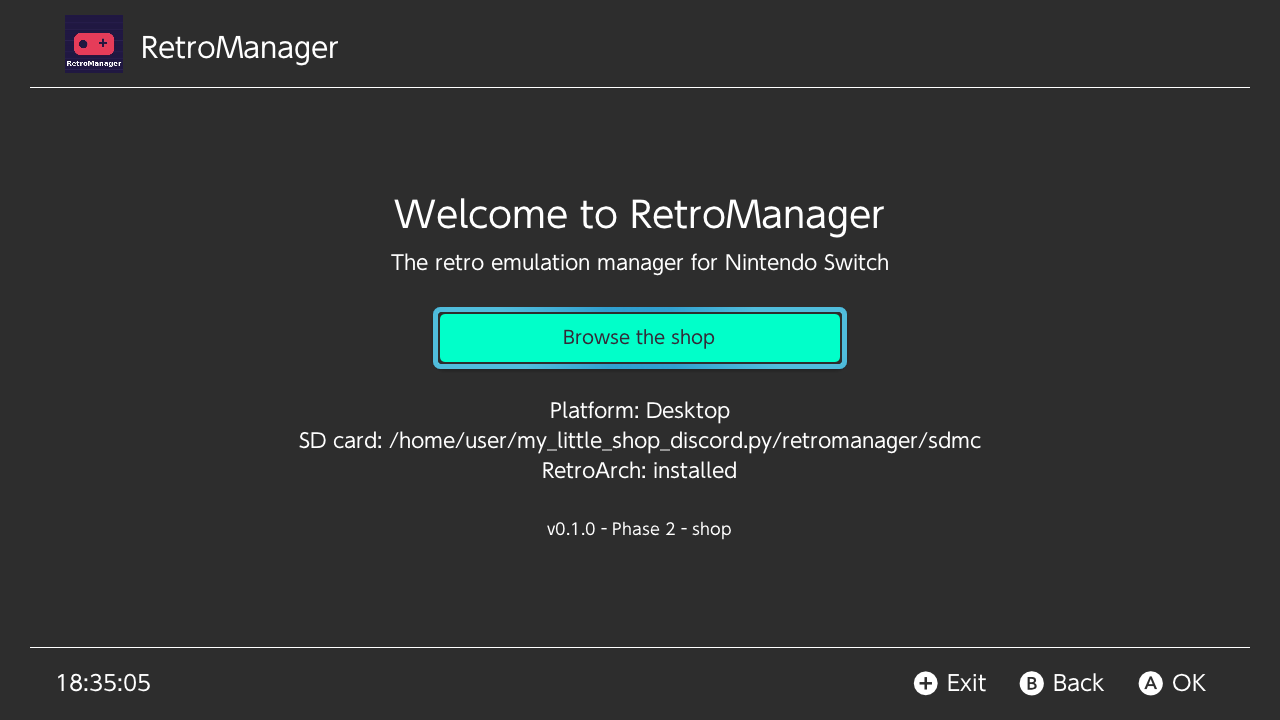
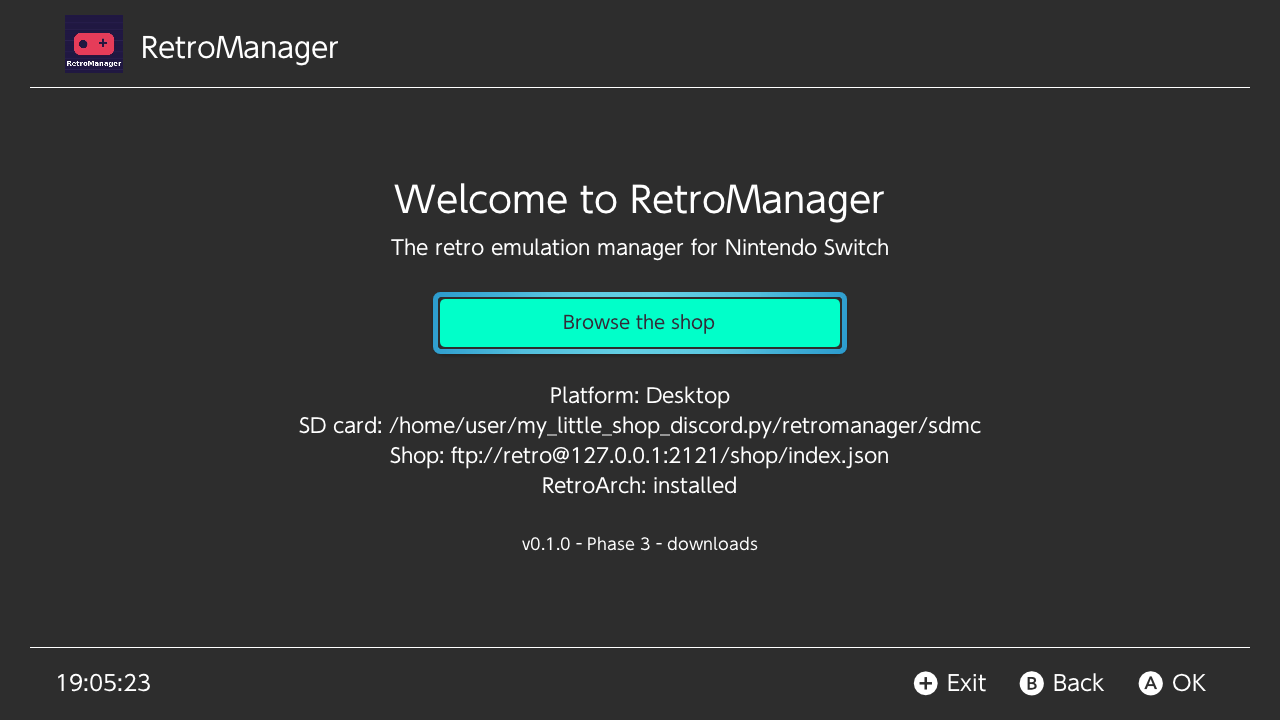
retromanager: document configuration and the download pipeline
Claude-Session: https://claude.ai/code/session_01QrhfqN1vSePJuW5szmThmT

Changed region(s): [[0.2188, 0.2444, 0.7812, 0.7028], [0.4062, 0.7333, 0.5938, 0.7639], [0.0938, 0.9472, 0.125, 0.9778]]

diff --git a/retromanager/ARCHITECTURE.md b/retromanager/ARCHITECTURE.md
@@ -31,13 +31,13 @@ contredit, on modifie d'abord ce document.
 ```mermaid
 graph TD
     UI["ui/ : Activities & vues Borealis"]
-    SVC["services/ : ShopService ✅, RomManager, EmulatorConfigurator, CheatManager, CloudSync, ForwarderBuilder, Scraper"]
-    PARSE["parsers/ : RepoIndexParser ✅, CfgParser, IniParser, ChtParser"]
-    FS["fs/ : RomStore, SaveStore, BiosStore"]
-    NET["network/ : IRemoteSource ✅, MockRemoteSource ✅, FtpClient ✅, SmbClient, HttpClient"]
+    SVC["services/ : ShopService ✅, DownloadService ✅, ConfigManager ✅, EmulatorConfigurator, CheatManager, CloudSync, ForwarderBuilder, Scraper"]
+    PARSE["parsers/ : RepoIndexParser ✅, ConfigParser ✅, CfgParser, IniParser, ChtParser"]
+    FS["fs/ : RomStore ✅, SaveStore, BiosStore"]
+    NET["network/ : IRemoteSource ✅, MockRemoteSource ✅, FtpClient ✅, SourceFactory ✅, SmbClient, HttpClient"]
     PLAT["platform/ : IFileSystem, VirtualPath, SdLayout, Platform"]
-    CORE["core/ : Result, AppContext, ITaskRunner, Url, Format"]
-    MODELS["models/ : GameEntry, RepoIndex, Systems"]
+    CORE["core/ : Result, AppContext, ITaskRunner, WorkerThread, EventBus, Cancellation, Crc32, Url, Format"]
+    MODELS["models/ : GameEntry, RepoIndex, Systems, AppConfig"]
 
     UI --> SVC
     UI --> MODELS
@@ -47,6 +47,7 @@ graph TD
     SVC --> FS
     SVC --> NET
     FS --> PLAT
+    FS --> MODELS
     NET --> CORE
     PARSE --> CORE
     MODELS --> CORE
@@ -55,12 +56,12 @@ graph TD
 
 | Couche | Rôle | Peut dépendre de | Ne doit **jamais** |
 |---|---|---|---|
-| `core/` | Types de base (`Result`, `Status`), composition (`AppContext`), `ITaskRunner`, utilitaires purs (`Url`, `Format`) | STL | inclure Borealis ou libnx |
-| `models/` | Données pures partagées par toutes les couches (`GameEntry`, `RepoIndex`, `SystemSection`) et catalogue des systèmes | `core` | contenir du comportement autre que des accesseurs |
+| `core/` | Types de base (`Result`, `Status`), composition (`AppContext`), exécution (`ITaskRunner`, `WorkerThread`, `CancellationToken`), `EventBus`, utilitaires purs (`Url`, `Format`, `Crc32`) | STL | inclure Borealis ou libnx |
+| `models/` | Données pures partagées par toutes les couches (`GameEntry`, `RepoIndex`, `SystemSection`, `AppConfig`) et catalogue des systèmes | `core` | contenir du comportement autre que des accesseurs |
 | `platform/` | Abstractions système + implémentations par plateforme | `core` | contenir de la logique métier |
 | `parsers/` | Fonctions **pures** texte ⇄ structures (`.cfg`, `.ini`, JSON, `.cht`) | `core`, nlohmann/json | faire des E/S : ils reçoivent et rendent des chaînes |
-| `fs/` | Opérations SD typées (ranger une ROM, retrouver une save…) | `platform`, `core` | parler au réseau |
-| `network/` | Déplace des octets derrière `IRemoteSource` | `core` (+ libcurl pour `FtpClient`) | parser un index, écrire sur la SD (il fournira des flux) |
+| `fs/` | Opérations SD typées : `RomStore` (destination, espace libre, installation atomique vérifiée par CRC) | `platform`, `models`, `core` | parler au réseau |
+| `network/` | Déplace des octets derrière `IRemoteSource` (index en mémoire, ROMs en flux vers un `ChunkSink`) | `core` (+ libcurl pour `FtpClient`) | parser un index, écrire sur la SD |
 | `services/` | Cas d'usage : orchestrent parsers, fs et network | tout ce qui précède | inclure Borealis |
 | `ui/` | Affichage et navigation Borealis | `services`, `models`, `core` | appeler un parser, un `IRemoteSource` ou `IFileSystem` directement |
 
@@ -72,8 +73,8 @@ graph TD
 
 | Cible | Contenu | Plateformes |
 |---|---|---|
-| `retromanager_core` | `src/core`, `src/models`, `src/parsers`, `src/services`, `src/platform/common`, `MockRemoteSource` | toutes : c'est ce qu'on teste |
-| `retromanager_curl` | `FtpClient` (libcurl). Option `RM_WITH_CURL`, activée par défaut | toutes |
+| `retromanager_core` | `src/core`, `src/models`, `src/parsers`, `src/fs`, `src/services`, `src/platform/common`, `MockRemoteSource` | toutes : c'est ce qu'on teste |
+| `retromanager_curl` | `FtpClient`, `SourceFactory` (libcurl). Option `RM_WITH_CURL`, activée par défaut | toutes |
 | `RetroManager` | `src/main.cpp`, `src/ui`, **une seule** implémentation de `src/platform/{switch,desktop}` + Borealis | desktop, Switch (`.nro`) |
 | `retromanager_mocks` | `tests/mocks` : `MemoryFileSystem`, chargeur de fausse SD | desktop (tests) |
 | `retromanager_tests` | `tests/unit`, `tests/integration` (GoogleTest) | desktop |
@@ -103,10 +104,14 @@ liront les vrais chemins dans `retroarch.cfg`.
   `openRead` / `openWrite` (par flux, pour les gros fichiers), `remove`,
   `removeAll`, `rename`, et des utilitaires communs (`readFile`, `writeFile`,
   `exists`…).
-- **Écritures atomiques** : `openWrite` écrit dans un fichier de transit
-  (`*.rm-partial`, masqué dans les listings), qui ne remplace la cible qu'au
-  `close()`. Un crash ou une coupure réseau pendant un téléchargement ou une
-  synchronisation ne laisse jamais de ROM tronquée ni de save corrompue.
+- **Écritures atomiques** : `openWrite("/roms/nds/Jeu.nds")` écrit dans un
+  fichier de transit caché, `/roms/nds/.Jeu.nds.tmp` (masqué dans les
+  listings), renommé sur la cible seulement au `close()`. Détruire le flux
+  sans `close()` supprime le `.tmp`. Un crash, une annulation ou une coupure
+  réseau ne laisse jamais de ROM tronquée ni de save corrompue ; un `.tmp`
+  resté après une coupure de courant est écrasé à la tentative suivante.
+- `availableSpace(path)` : espace libre du volume (`Unsupported` si la
+  plateforme ne sait pas le dire ; l'appelant continue alors sans contrôle).
 - Codes d'erreur normalisés (`NotFound`, `NotADirectory`, `IsADirectory`,
   `NotEmpty`, `InvalidPath`, `PermissionDenied`…), identiques sur toutes les
   implémentations.
@@ -117,7 +122,7 @@ liront les vrais chemins dans `retroarch.cfg`.
 |---|---|---|
 | `LocalFileSystem("sdmc:/")` | carte SD montée par libnx | console |
 | `LocalFileSystem(<dossier>)` | `retromanager/sdmc/` ou `$RETROMANAGER_SD_ROOT` | app desktop sur une fausse SD |
-| `test::MemoryFileSystem` | RAM | tests unitaires rapides et hermétiques, mode lecture seule simulé |
+| `test::MemoryFileSystem` | RAM | tests unitaires rapides et hermétiques ; lecture seule et capacité de carte simulables |
 
 **Test de contrat** (`tests/unit/FileSystemContractTest.cpp`) : la même suite
 s'exécute contre chaque implémentation. C'est la garantie qu'un service validé
@@ -169,37 +174,54 @@ sequenceDiagram
 ```
 
 L'UI ne connaît que `ShopService` et les modèles. `main.cpp` choisit la
-source (aujourd'hui `MockRemoteSource`, demain `FtpClient` selon
-`config.json`) : changer de source ne touche ni l'UI ni le service.
+source d'après `config.json` (`ConfigManager` → `createRemoteSource` :
+`FtpClient`, `MockRemoteSource`, ou `UnavailableRemoteSource` qui porte
+l'erreur de configuration jusqu'à l'écran) : changer de source ne touche ni
+l'UI ni les services. Configuration : [docs/CONFIG.md](docs/CONFIG.md).
 
 Format de l'index : [docs/INDEX_FORMAT.md](docs/INDEX_FORMAT.md).
 
-### 4.3 Exemple de flux (Phase 3) : télécharger une ROM
+### 4.3 Flux implémenté (Phase 3) : télécharger une ROM
 
 ```mermaid
 sequenceDiagram
-    participant UI as RomBrowserActivity (ui)
-    participant S as RomManager (services)
-    participant R as IRemoteSource (network)
+    participant UI as DownloadActivity (ui)
+    participant B as EventBus (core)
+    participant D as DownloadService (services, WorkerThread)
     participant F as RomStore → IFileSystem (fs/platform)
-    UI->>S: download(entry)          [thread UI]
-    S->>R: openRead(remotePath)      [tâche de fond]
-    S->>F: openWrite(/roms/snes/x.sfc)
-    loop chunks
-        R-->>S: read(chunk)
-        S->>F: write(chunk)
-        S-->>UI: progression (repostée sur le thread UI)
+    participant R as IRemoteSource (network)
+    UI->>B: subscribe(Started / Progressed / Finished)
+    UI->>D: start(game) → id                       [thread UI, rend la main]
+    D->>F: beginInstall(game) : espace libre, .Jeu.nds.tmp
+    alt espace insuffisant
+        D-->>B: Finished{InsufficientSpace, chiffres}  (le NAS n'est jamais contacté)
     end
-    S->>F: close()  (commit atomique)
-    S-->>UI: Result (succès / erreur typée)
+    D->>R: downloadFile(url, sink, progress, token)
+    loop blocs de ~16-256 Kio
+        R->>F: sink → RomInstall::write (tampon 1 Mio, CRC32 au fil de l'eau)
+        D-->>B: Progressed (≤ 10 par seconde)
+    end
+    UI->>D: cancel(id) sur B → token → curl abandonne, .tmp supprimé
+    D->>F: commit() : CRC vérifié puis renommage atomique
+    D-->>B: Finished{ok | Cancelled | NetworkError | IntegrityError…}
+    B-->>UI: handlers exécutés sur le thread principal
 ```
+
+La mémoire consommée ne dépend pas de la taille de la ROM : tampon
+d'écriture de 1 Mio + tampon de réception curl de 256 Kio. Le test
+d'intégration mesure la mémoire résidente pendant un téléchargement de
+64 Mio : environ +1,2 Mio (échec au-delà de 16 Mio).
 
 ### 4.4 Asynchronisme
 
-- Les opérations longues (réseau, copie, scraping) passent par `ITaskRunner`
-  (`core/ITaskRunner.hpp`) : `ui::BorealisTaskRunner` (`brls::async` /
-  `brls::sync`) dans l'app, `ImmediateTaskRunner` ou une file manuelle dans
-  les tests, qui restent donc synchrones et déterministes.
+- Les opérations longues passent par `ITaskRunner` (`core/ITaskRunner.hpp`) :
+  - `ui::BorealisTaskRunner` (`brls::async` / `brls::sync`) pour les tâches
+    courtes (chargement de l'index) ;
+  - `WorkerThread`, un thread dédié possédé par `DownloadService`, pour les
+    téléchargements : ils durent des minutes et ne doivent pas bloquer la
+    boucle de tâches unique de Borealis ;
+  - `ImmediateTaskRunner` ou une file manuelle dans les tests, qui restent
+    donc synchrones et déterministes.
 - Les services livrent leurs résultats par callback **sur le thread
   principal**. Ils ignorent tout de Borealis : c'est l'implémentation
   d'`ITaskRunner` fournie par l'UI qui fait le saut de thread.
@@ -208,14 +230,21 @@ sequenceDiagram
   (`shared_ptr<bool>`), vérifié sur le thread principal.
 - `Application::exit()` de Borealis attend la fin du thread de tâches : les
   services créés dans `main()` survivent donc à toute tâche en cours.
-- Pas de bus d'événements global tant qu'un besoin réel n'apparaît pas
-  (synchronisation cloud en arrière-plan, par exemple).
+- **EventBus** (`core/EventBus.hpp`) : canal typé services → UI pour les
+  événements qui durent (progression des téléchargements, demain la synchro
+  cloud). `publish()` depuis n'importe quel thread ; les handlers tournent
+  toujours sur le thread principal ; une `Subscription` détruite n'est plus
+  jamais appelée, même pour un événement déjà en file.
+- `DownloadService` possède son `WorkerThread` : son destructeur annule tout
+  et attend la fin du transfert en cours. Dans `main()`, il est déclaré en
+  dernier pour être détruit en premier.
 
 ### 4.5 Gestion des erreurs
 
 `Result<T>` / `Status` à chaque frontière. Les services ajoutent du contexte au
 message ; l'UI traduit `ErrorCode` en message localisé (i18n : réseau,
-authentification, index introuvable, format invalide). Aucune exception ne
+authentification, index introuvable, format invalide, espace insuffisant,
+CRC incorrect, configuration absente). Aucune exception ne
 traverse une frontière de couche (le parser attrape celles de nlohmann/json).
 
 ---
@@ -226,12 +255,17 @@ traverse une frontière de couche (le parser attrape celles de nlohmann/json).
    `.cfg`, synchronisation, parsing des listings FTP).
 2. **Unitaires** (`tests/unit`) : `MemoryFileSystem` et fakes, rapides.
 3. **Contrat** : une suite par interface, exécutée sur chaque implémentation.
-4. **Intégration** (`tests/integration`) : `FtpClient` contre un vrai serveur
-   FTP local (`tools/test_ftp_server.py`, pyftpdlib) servant
-   `tests/fixtures/ftp_root`. Ces tests sont ignorés (`SKIPPED`) si
-   `RM_TEST_FTP_PORT` n'est pas défini.
-5. **CI** (`.github/workflows/retromanager.yml`) : tests sous ASan et UBSan,
-   build desktop, build Switch `.nro` dans le conteneur `devkitpro/devkita64`.
+4. **Intégration** (`tests/integration`) : `FtpClient` → `DownloadService` →
+   `RomStore` → disque, contre un vrai serveur local
+   (`tools/test_ftp_server.py`, pyftpdlib) servant `tests/fixtures/ftp_root`
+   plus une ROM générée de 64 Mio avec son CRC, et un second serveur **FTPS**
+   au certificat auto-signé. Couvert : flux, mémoire bornée, annulation,
+   nettoyage du `.tmp`, fichier absent, identifiants jamais envoyés à un autre
+   hôte, `verifyTls` on/off. Ignorés (`SKIPPED`) sans `RM_TEST_FTP_PORT` /
+   `RM_TEST_FTPS_PORT`.
+5. **CI** (`.github/workflows/retromanager.yml`) : tests sous ASan et UBSan
+   avec les deux serveurs, build desktop, libcurl compilée depuis les
+   sources, build Switch `.nro` dans le conteneur `devkitpro/devkita64`.
 
 ---
 
@@ -241,7 +275,7 @@ traverse une frontière de couche (le parser attrape celles de nlohmann/json).
 retromanager/
 ├── CMakeLists.txt, CMakePresets.json   # presets tests / desktop / switch
 ├── cmake/                              # FetchBorealis (avant project()), Dependencies, Curl
-├── docs/                               # INDEX_FORMAT.md, captures
+├── docs/                               # INDEX_FORMAT.md, CONFIG.md, captures
 ├── include/retromanager/<couche>/      # en-têtes publics, un dossier par couche
 ├── src/<couche>/                       # implémentations (même découpage)
 │   └── platform/{common,switch,desktop}
@@ -261,5 +295,5 @@ Nommage : `IXxx` pour une interface, un fichier par classe, espace de noms
 |---|---|---|
 | 0–1 | Squelette, `IFileSystem` avec mocks, fausse SD, écran d'accueil, CI | ✅ |
 | 2 | Boutique : `GameEntry`, `RepoIndexParser`, `IRemoteSource` (mock + FTP), `ShopService`, liste Borealis | ✅ |
-| 3 | Téléchargement : `IRemoteSource::openRead` en flux, `RomStore`, écriture atomique sur la SD, progression | — |
-| 4+ | Configuration des sources (`config.json`), SMB/HTTP, scraping, configurateur RetroArch, cheats, cloud saves, forwarders | — |
+| 3 | `config.json` + vrai `FtpClient`, téléchargement en flux, `RomStore` (espace, CRC, atomique), `EventBus`, écran de progression annulable, FTPS sans vérification | ✅ |
+| 4+ | Marqueur « installé » et file de téléchargements, SMB/HTTP, scraping, configurateur RetroArch, cheats, cloud saves, forwarders | — |

diff --git a/retromanager/docs/CONFIG.md b/retromanager/docs/CONFIG.md
@@ -1,0 +1,63 @@
+# Configuration (`config.json`)
+
+RetroManager lit sa configuration dans `sdmc:/switch/RetroManager/config.json`.
+Au premier lancement, s'il n'existe pas, un modèle vide est écrit : il suffit
+de le compléter. Code : `src/parsers/ConfigParser.cpp`,
+`src/services/ConfigManager.cpp`, `src/network/SourceFactory.cpp`.
+
+```json
+{
+  "version": 1,
+  "shop": {
+    "type": "ftp",
+    "url": "ftp://192.168.1.20:21/shop/index.json",
+    "username": "leo",
+    "password": "mon-mot-de-passe",
+    "verifyTls": false
+  }
+}
+```
+
+| Champ | Défaut | Rôle |
+|---|---|---|
+| `shop.type` | `"ftp"` | `"ftp"` : un vrai serveur. `"mock"` : la boutique de démonstration intégrée (aucun réseau). |
+| `shop.url` | `""` | Emplacement de l'index. `ftp://` ou `ftps://` (FTPS **explicite**, AUTH TLS, comme la plupart des NAS). Une URL qui finit par `/` désigne `<url>index.json`. Port 21 par défaut. Le chemin est relatif au dossier de connexion FTP (la racine du partage sur un NAS). |
+| `shop.username` / `shop.password` | `""` | Identifiants. Vides : `anonymous`, ou ceux inclus dans l'URL (`ftp://user:pass@hote/`). |
+| `shop.verifyTls` | `false` | Vérification du certificat en FTPS. Voir ci-dessous. |
+
+## Comportement
+
+- **Champ manquant** : valeur par défaut. **Champ inconnu** : ignoré.
+- **Mauvais type** (mot de passe numérique, `verifyTls: "non"`…) ou JSON
+  invalide : la configuration est **refusée** et le fichier n'est **jamais
+  réécrit**. La boutique affiche l'erreur (avec la ligne et la colonne), à
+  corriger sur la carte SD.
+- URL vide, invalide ou non supportée (`http://`, `smb://` pour l'instant) :
+  l'application démarre quand même ; l'écran Boutique explique quoi corriger.
+
+## FTPS et certificats
+
+Un NAS domestique présente en général un certificat **auto-signé**, que la
+console ne peut pas valider. En outre, la libcurl de la Switch n'embarque
+aucune autorité de certification. D'où `verifyTls: false` par défaut :
+
+- la connexion reste **chiffrée** (mot de passe et ROMs ne circulent pas en
+  clair sur le Wi-Fi) ;
+- mais le serveur n'est **pas authentifié** : sur un réseau hostile, un
+  attaquant pourrait se faire passer pour le NAS.
+
+Passez `verifyTls` à `true` pour un serveur doté d'un certificat reconnu
+(sur desktop ; sur Switch il faudra fournir un bundle CA, non géré pour
+l'instant). Les deux cas sont couverts par des tests d'intégration contre un
+serveur FTPS au certificat auto-signé (`tests/integration/FtpDownloadIntegrationTest.cpp`).
+
+## Sécurité
+
+- Le mot de passe est stocké **en clair** sur la carte SD. N'utilisez pas un
+  compte administrateur du NAS : créez un compte en **lecture seule** limité
+  au partage des ROMs.
+- Les identifiants ne sont envoyés qu'au serveur configuré (même hôte et
+  même port). Une entrée d'index pointant ailleurs est refusée
+  (`PermissionDenied`) : un index piégé ne peut pas récupérer le mot de passe.
+- Les URLs affichées ou écrites dans les logs ne contiennent jamais le mot de
+  passe.

diff --git a/retromanager/README.md b/retromanager/README.md
@@ -4,6 +4,7 @@ Gestionnaire d'émulation rétro pour Nintendo Switch, « un Tinfoil pour le
 rétro ». C++17, libnx, [Borealis](https://github.com/xfangfang/borealis).
 
 ![Boutique (build desktop)](docs/shop-desktop.png)
+![Téléchargement (build desktop)](docs/download-desktop.png)
 
 L'organisation du code est décrite dans [ARCHITECTURE.md](ARCHITECTURE.md).
 
@@ -30,30 +31,36 @@ Toutes les commandes se lancent depuis `retromanager/`.
 # Tests unitaires seuls : rapide, sans Borealis ni dépendances GPU
 cmake --preset tests && cmake --build --preset tests && ctest --preset tests
 
-# App desktop + tests, sur une fausse carte SD
+# App desktop + tests, sur une fausse carte SD dont config.json pointe vers
+# ftp://127.0.0.1:2121 (serveur de test, limité à 8 Mo/s pour voir la progression)
 python3 tools/make_mock_sd.py          # crée ./sdmc à partir de tests/fixtures/sd_card
+python3 tools/test_ftp_server.py --port 2121 --throttle-kbps 8192 &
 cmake --preset desktop && cmake --build --preset desktop
 ./build/desktop/RetroManager           # -d : logs debug, -v : vue de debug
 
 # Autre fausse SD
 RETROMANAGER_SD_ROOT=/chemin/vers/sd ./build/desktop/RetroManager
 
+# Boutique de démonstration sans réseau : "type": "mock" dans sdmc/switch/RetroManager/config.json
 # Écrans de chargement et d'erreur de la boutique (source mock)
 RETROMANAGER_MOCK_LATENCY_MS=3000 ./build/desktop/RetroManager
 RETROMANAGER_MOCK_ERROR=network ./build/desktop/RetroManager   # network|auth|notfound|format
+RETROMANAGER_MOCK_SPEED_KBPS=2048 ./build/desktop/RetroManager  # vitesse des téléchargements
 
-# Tests d'intégration FTP contre un vrai serveur local (pip install pyftpdlib)
-python3 tools/test_ftp_server.py --port-file /tmp/ftp.port &
-RM_TEST_FTP_PORT=$(cat /tmp/ftp.port) ctest --preset tests
+# Tests d'intégration FTP + FTPS contre de vrais serveurs locaux
+# (pip install pyftpdlib pyopenssl ; openssl en ligne de commande)
+python3 tools/test_ftp_server.py --port-file /tmp/ftp.port --ftps-port-file /tmp/ftps.port &
+RM_TEST_FTP_PORT=$(cat /tmp/ftp.port) RM_TEST_FTPS_PORT=$(cat /tmp/ftps.port) ctest --preset tests
 
 # Switch
 cmake --preset switch && cmake --build --preset switch
 # → build/switch/RetroManager.nro, à copier dans sdmc:/switch/
 ```
 
-La boutique affiche pour l'instant un index de démonstration servi par
-`MockRemoteSource` ; le format des index est décrit dans
-[docs/INDEX_FORMAT.md](docs/INDEX_FORMAT.md).
+La source de la boutique se règle dans `sdmc:/switch/RetroManager/config.json`
+([docs/CONFIG.md](docs/CONFIG.md)) ; le format des index est décrit dans
+[docs/INDEX_FORMAT.md](docs/INDEX_FORMAT.md). Les ROMs sont installées dans
+`/roms/<système>/`.
 
 Sur desktop, `sdmc/` joue le rôle de la racine `sdmc:/` de la console : l'app
 y lit et y écrit exactement comme elle le ferait sur la carte SD.

diff --git a/retromanager/docs/INDEX_FORMAT.md b/retromanager/docs/INDEX_FORMAT.md
@@ -52,9 +52,9 @@ Tout autre champ est ignoré (compatibilité ascendante).
 | `title` | chaîne non vide | nom du fichier sans extension |
 | `system` | chaîne (id, voir plus bas) | déduit de l'extension, sinon `unknown` |
 | `region` | chaîne libre (`EUR`, `USA`, `JPN`…) | vide |
-| `size` | entier ≥ 0, en octets | 0 (inconnue) |
+| `size` | entier ≥ 0, en octets ; sert au contrôle d'espace libre avant téléchargement | 0 (inconnue : pas de contrôle) |
 | `boxart` | chaîne (URL) | vide |
-| `crc32` | 8 chiffres hexadécimaux | vide |
+| `crc32` | 8 chiffres hexadécimaux, **vérifié après téléchargement** (fichier rejeté si différent) | vide |
 | `year` | entier entre 1950 et 2100 | absent |
 | `description` | chaîne | vide |
 | `id` | chaîne unique dans l'index | `<system>/<nom de fichier>` |
@@ -69,6 +69,13 @@ Tout autre champ est ignoré (compatibilité ascendante).
 - Convention Tinfoil : un fragment `#Nom%20du%20fichier.gba` fixe le nom du
   fichier sur la SD, utile quand l'URL n'en contient pas (`dl?id=42`). Le
   fragment est retiré de l'URL de téléchargement.
+
+### Hébergement des ROMs
+
+Les identifiants du NAS ne sont envoyés qu'au serveur de l'index (même hôte,
+même port) : une entrée pointant vers un autre serveur est refusée au
+téléchargement. Les ROMs sont installées dans `/roms/<system>/<nom>` ; les
+caractères interdits sur FAT/exFAT (`<>:"|?*`) deviennent `_`.
 
 ### Identifiants de système
 
